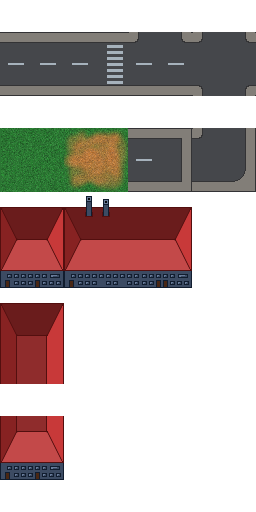
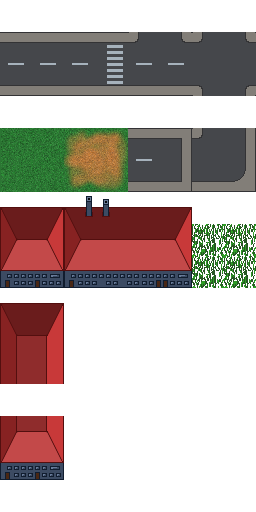
Añadido HIERBA! Dentro de la hierba no te ve nadie!

Changed region(s): [[0.75, 0.4375, 1.0, 0.5625]]

diff --git a/src/map.cpp b/src/map.cpp
@@ -25,6 +25,16 @@ static Tile tiles[] = {
     Tile(3, 0),     // 1111
 };
 
+bool isSolid(int n)
+{
+	return n >= 8 && n != 11;
+}
+
+bool needsOverlay(int n)
+{
+	return n >= 8;
+}
+
 const int TILESIZE = 64;
 
 void Map::load(vector<vector<bool> > v)
@@ -111,6 +121,8 @@ void Map::load(vector<vector<bool> > v)
                 }
                 else if(rand()%3 == 0 || border)
                     t.tileNum = 8;
+                else if(rand()%6 == 0)
+                    t.tileNum = 11;
                 else if(rand()%3 == 0)
                     t.tileNum = 5;
             }
@@ -123,16 +135,30 @@ void Map::load(vector<vector<bool> > v)
             t.s.setTexture(tex);
             int ttx = t.tileNum % 4;
             int tty = t.tileNum / 4;
+            if(t.tileNum == 11)
+            	ttx = 0, tty = 1;
+            
             t.s.setTextureRect(sf::IntRect(ttx*TILESIZE, tty*TILESIZE*3/2+TILESIZE/2, TILESIZE, TILESIZE));
             t.s.setOrigin(TILESIZE/2, TILESIZE/2);
             t.s.setRotation(t.rot*90);
             t.s.setPosition((x+1)*TILESIZE - TILESIZE/2, (y+1)*TILESIZE - TILESIZE/2);
-
+			
+            ttx = t.tileNum % 4;
+            tty = t.tileNum / 4;
+            
             t.s2.setTexture(tex);
-            t.s2.setTextureRect(sf::IntRect(ttx*TILESIZE, tty*TILESIZE*3/2, TILESIZE, TILESIZE));
             t.s2.setOrigin(TILESIZE/2, TILESIZE/2);
             t.s2.setRotation(t.rot*90);
-            t.s2.setPosition((x+1)*TILESIZE - TILESIZE/2, (y+1)*TILESIZE - TILESIZE);
+			if(t.tileNum == 11)
+			{
+		        t.s2.setTextureRect(sf::IntRect(ttx*TILESIZE, tty*TILESIZE*3/2+TILESIZE/2, TILESIZE, TILESIZE));
+	            t.s2.setPosition((x+1)*TILESIZE - TILESIZE/2, (y+1)*TILESIZE - TILESIZE/2);
+		    }
+		    else
+			{
+		        t.s2.setTextureRect(sf::IntRect(ttx*TILESIZE, tty*TILESIZE*3/2, TILESIZE, TILESIZE));
+		        t.s2.setPosition((x+1)*TILESIZE - TILESIZE/2, (y+1)*TILESIZE - TILESIZE);
+		    }
         }
 
     boolMatrix = vector<vector<bool> > (tx, vector<bool> (ty, true));
@@ -152,7 +178,7 @@ void Map::load(vector<vector<bool> > v)
         q.pop();
         if(x < 0 || x >= tx) continue;
         if(y < 0 || y >= ty) continue;
-        if(m[x][y].tileNum >= 8) continue;
+        if(isSolid(m[x][y].tileNum)) continue;
         if(!boolMatrix[x][y]) continue;
         boolMatrix[x][y] = false;
         q.push(pair<int, int>(x+1, y));
@@ -179,7 +205,7 @@ void Map::renderTop()
 
     for(int x = 0; x < tx; x++)
         for(int y = 0; y < ty; y++)
-            if(m[x][y].tileNum >= 8)
+            if(needsOverlay(m[x][y].tileNum))
                 //graphics->Draw(&m[x][y].s2);
                 App->draw(m[x][y].s2);
 

diff --git a/src/city.cpp b/src/city.cpp
@@ -98,7 +98,7 @@ bool City::visible(vec2 from, vec2 to)
     for(int i = 0; i <= 20; i++)
     {
         vec2 pt = (from*float(i) + to*float(20-i))/20.0f;
-        if(occupedXY(pt.x, pt.y))
+        if(occupedXY(pt.x, pt.y) || map.m[int(pt.x/tw)][int(pt.y/th)].tileNum == 11)
             return false;
     }
 
